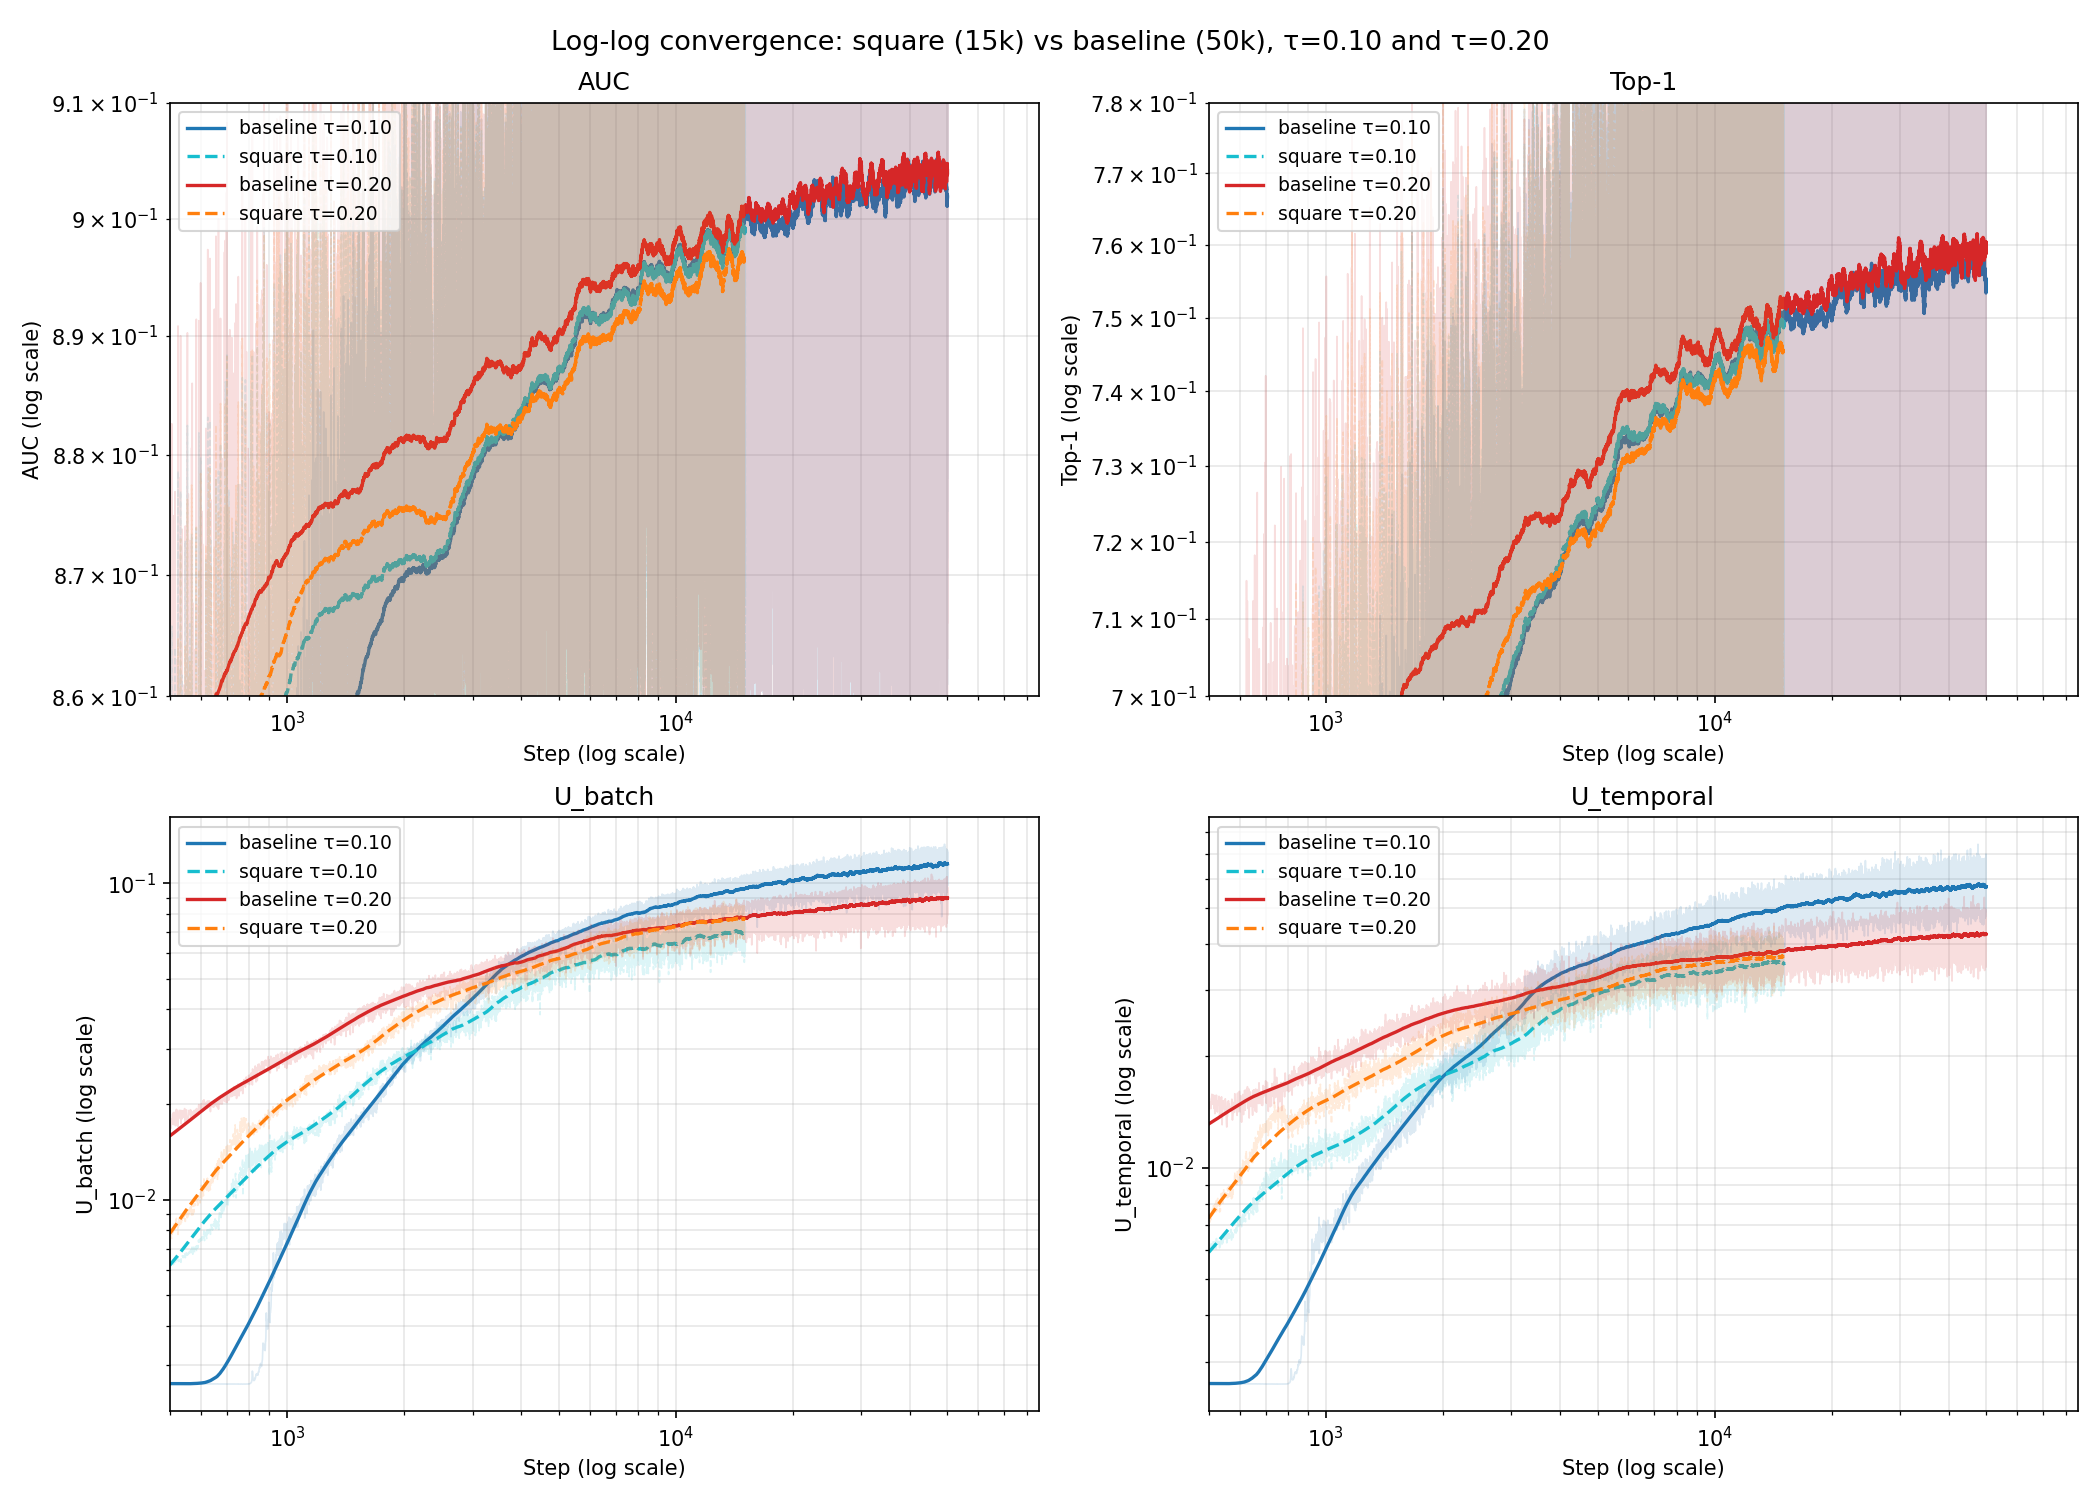
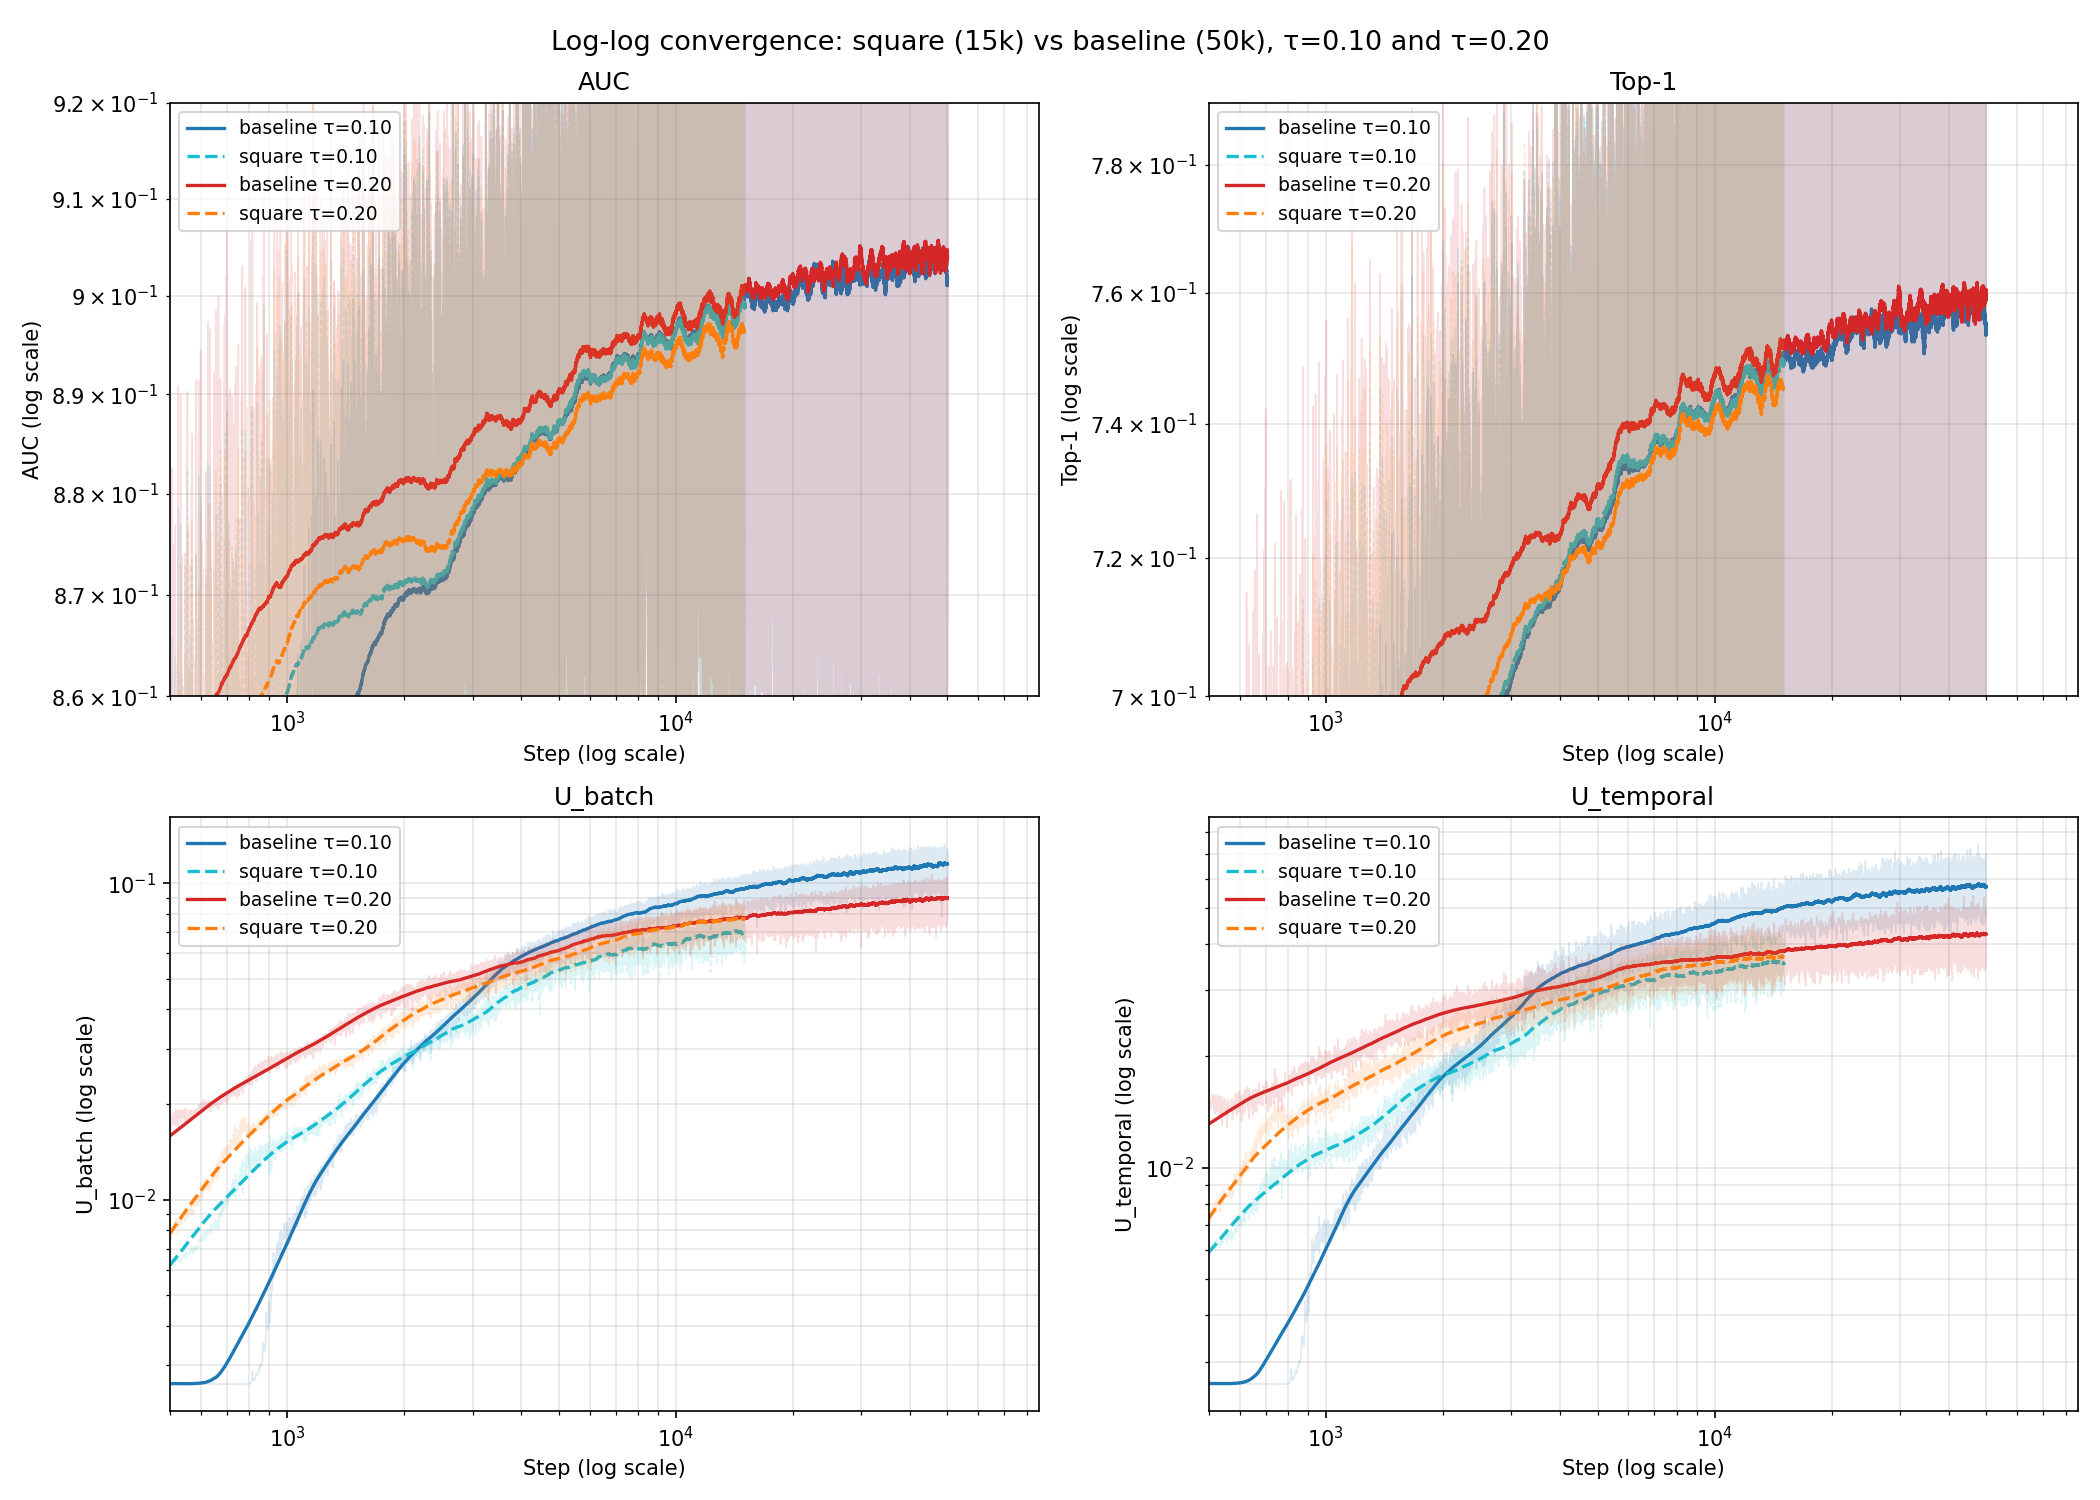
review fixups: late-window means as headline, bump AUC ylim
«Agent Opus 4.7 writing»

- AUC ylim 0.91 → 0.92 (linear and log-log) so smoothed baseline
  curves no longer hug the top edge at 50 k.
- Top-1 ylim 0.78 → 0.79 for the same reason.
- Drop the misleading "Final-step values" table (raw last-row
  noise spikes that contradicted the plot ceiling). Replace with a
  "Late-window means" table: baselines on 40 001–50 000, square arms
  on the 5 001–15 000 window the Welch tests already use.

diff --git a/experiments/2026-05-09_exp_loss_extensions/scripts/plot_4arm_comparison.py b/experiments/2026-05-09_exp_loss_extensions/scripts/plot_4arm_comparison.py
@@ -66,8 +66,8 @@ for arm in ARM_ORDER:
     df = dfs[arm]
     st = styles[arm]
     for ax, col, ylim in [
-        (axes[0], "auc",  (0.86, 0.91)),
-        (axes[1], "top1", (0.70, 0.78)),
+        (axes[0], "auc",  (0.86, 0.92)),
+        (axes[1], "top1", (0.70, 0.79)),
     ]:
         raw = df[col]
         sm  = rolling_mean(raw, WINDOW)
@@ -77,8 +77,8 @@ for arm in ARM_ORDER:
                 label=st["label"], linewidth=1.6)
 
 for ax, col, ylim, title in [
-    (axes[0], "auc",  (0.86, 0.91), "AUC"),
-    (axes[1], "top1", (0.70, 0.78), "Top-1"),
+    (axes[0], "auc",  (0.86, 0.92), "AUC"),
+    (axes[1], "top1", (0.70, 0.79), "Top-1"),
 ]:
     ax.set_ylim(ylim)
     ax.set_xlabel("Step")
@@ -140,8 +140,8 @@ fig.suptitle(
 
 # (axis, column, title, ylim_or_None)
 panels = [
-    (axes[0, 0], "auc",        "AUC",        (0.86, 0.91)),
-    (axes[0, 1], "top1",       "Top-1",      (0.70, 0.78)),
+    (axes[0, 0], "auc",        "AUC",        (0.86, 0.92)),
+    (axes[0, 1], "top1",       "Top-1",      (0.70, 0.79)),
     (axes[1, 0], "u_batch",    "U_batch",    None),
     (axes[1, 1], "u_temporal", "U_temporal", None),
 ]

diff --git a/experiments/2026-05-09_exp_loss_extensions/RESULTS.md b/experiments/2026-05-09_exp_loss_extensions/RESULTS.md
@@ -35,11 +35,10 @@ are now extended to 50 k so the late plateau is visible.
 Inside the 0–15 k overlap window all four arms cluster tightly within
 run-to-run noise. Past 15 k the baselines drift up by another ≈0.005
 AUC and ≈0.005 Top-1 on the smoothed curve and then sit on a flat
-plateau through 50 k — the late-window means (40 001–50 000) are
-AUC 0.9034 (τ=0.10) / 0.9039 (τ=0.20) and Top-1 0.7573 / 0.7588.
-Without a 50 k square run we can't claim square diverges late, only
-that whatever lead square τ=0.10 had at 15 k (≈0.001 AUC) is well
-inside the noise band the baselines produce on the same plateau.
+plateau through 50 k. Without a 50 k square run we can't claim square
+diverges late — only that the ≈0.001 AUC lead square τ=0.10 had at
+15 k is well inside the noise band the baselines produce on their
+late plateau.
 
 ## The same data on log-log
 
@@ -65,18 +64,22 @@ ends at ≈ 0.069 — though we don't know whether square would itself
 have continued climbing past 15 k. Side metric, not the objective we
 score on.
 
-## Final-step values
+## Late-window means
 
-| Arm | Step | AUC | Top-1 | U_batch | U_temporal |
-|---|---:|---:|---:|---:|---:|
-| baseline τ=0.10 | 50 000 | 0.9316 | 0.8052 | 0.1075 | 0.0622 |
-| square   τ=0.10 | 15 100 | 0.8662 | 0.7101 | 0.0690 | 0.0317 |
-| baseline τ=0.20 | 50 000 | 0.9212 | 0.7879 | 0.0927 | 0.0447 |
-| square   τ=0.20 | 15 000 | 0.9183 | 0.7765 | 0.0762 | 0.0360 |
+Per-step values are noisy by ±0.02 AUC, so the headline numbers below
+are means over the last 10 k steps of each arm.
 
-Single-step values are noisy; for the baselines the 40 001–50 000 window
-mean is more representative: AUC 0.9034 / Top-1 0.7573 (τ=0.10) and
-AUC 0.9039 / Top-1 0.7588 (τ=0.20).
+| Arm | Window | AUC | Top-1 | U_batch | U_temporal |
+|---|---|---:|---:|---:|---:|
+| baseline τ=0.10 | 40 001–50 000 | 0.9034 | 0.7573 | 0.1136 | 0.0571 |
+| baseline τ=0.20 | 40 001–50 000 | 0.9039 | 0.7588 | 0.0890 | 0.0423 |
+| square   τ=0.10 | 5 001–15 000  | 0.8953 | 0.7415 | 0.0643 | 0.0336 |
+| square   τ=0.20 | 5 001–15 000  | 0.8934 | 0.7392 | 0.0713 | 0.0350 |
+
+The square arms are quoted on their available 5 k–15 k window because
+that is also the window used for the Welch tests below; this is a
+conservative late-window for them but it cannot include the 35 k of
+training the baselines have past 15 k.
 
 ## Statistical tests on AUC / Top-1 (Welch t, overlap window 5 001–15 000, n=10 000 each)
 
